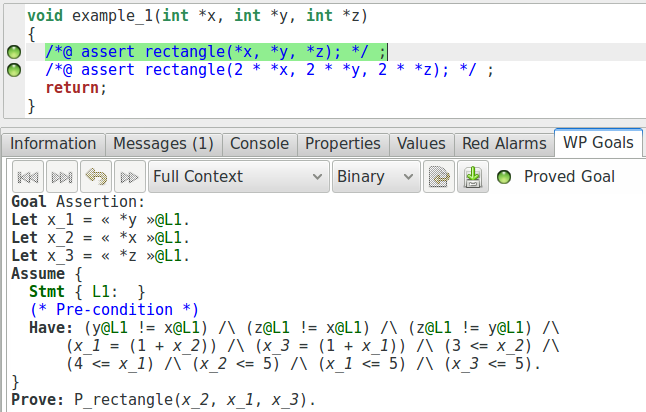
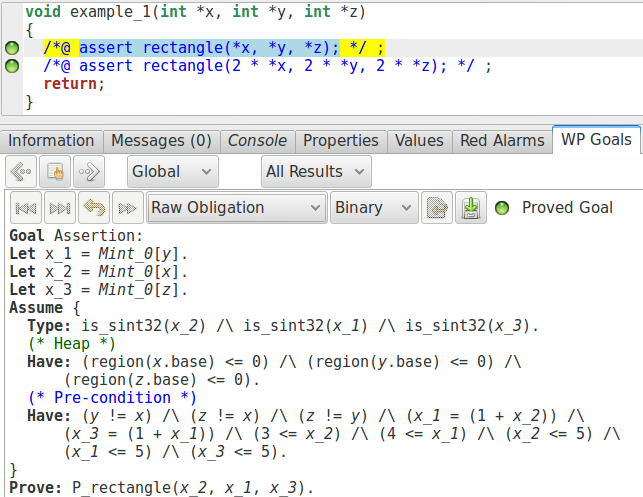
Minor fixes

Changed region(s): [[0.0, 0.0, 1.0, 1.0], [0.7154, 0.1165, 0.7465, 0.1748]]

diff --git a/english/statements/basic.tex b/english/statements/basic.tex
@@ -214,7 +214,7 @@ precondition of our previous program:
   ($M[p \mapsto 1][p] = 1$)
 \item we use the definition of the get operator for the expression about $q$\\
   ($M[p \mapsto 1][q] = \texttt{if}\ q = p\ \texttt{then}\ 1\ \texttt{else}\ M[q]$)
-\item we perform some simplification to the goal ...
+\item we perform some simplification to the formula ...
 \item ... and finally conclude that either $M[q] = 1$ or $p = q$.
 \end{enumerate}
 
@@ -227,8 +227,8 @@ The WP plugin does not exactly work like this. In particular, it depends on the
 memory model chosen for the proof that will make different assumption about the
 memory is organized. For the memory model we use, the typed memory model, in
 fact WP creates multiple variables for memory. However, let us have a look at
-the goal generated for the postcondition of the swap function, by preventing
-WP to simplify the goal using the option \CodeInline{-wp-no-simpl}:
+the verification condition generated for the postcondition of the swap function,
+by preventing WP to simplify it using the option \CodeInline{-wp-no-simpl}:
 
 
 \image{memory-model}

diff --git a/english/conclusion.tex b/english/conclusion.tex
@@ -175,7 +175,8 @@ data structures.
 
 There are some proofs that cannot be discharged by automatic solvers. In
 such a case, we have to provide these proofs interactively. WP, like
-Why3, can extract its goals to Coq, and it is very interesting to study
+Why3, can extract its verification conditions to Coq, and it is very
+interesting to study
 this language. In the context of Frama-C, we produce reusable lemmas
 libraries which are already proved. But Coq can also be used for many
 different tasks, including programming. Note that Why3 can also extract

diff --git a/english/acsl-properties/lemmas.tex b/english/acsl-properties/lemmas.tex
@@ -66,9 +66,9 @@ properties about them:
 
 
 
-For these proofs, Alt-ergo, will probably not be able to discharge
-generated goals. In this case, Z3 will certainly perform it. We can then
-write some code examples:
+For these proofs, Alt-ergo, will probably not be able to discharge all
+generated verification conditions. In this case, Z3 will certainly perform
+it. We can then write some code examples:
 
 
 

diff --git a/english/acsl-logic-definitions/axiomatic.tex b/english/acsl-logic-definitions/axiomatic.tex
@@ -393,7 +393,8 @@ integers do not overflow:
 
 
 
-We see that the goals related to the range of \CodeInline{i} fail, and
+We see that the prover fails to discharge the verification condition
+related to the range of \CodeInline{i}, and that
 \CodeInline{i} can exceed the maximum of an unsigned int. One could try
 to provide a limit to the value of \CodeInline{strlen(s)} in precondition:
 
